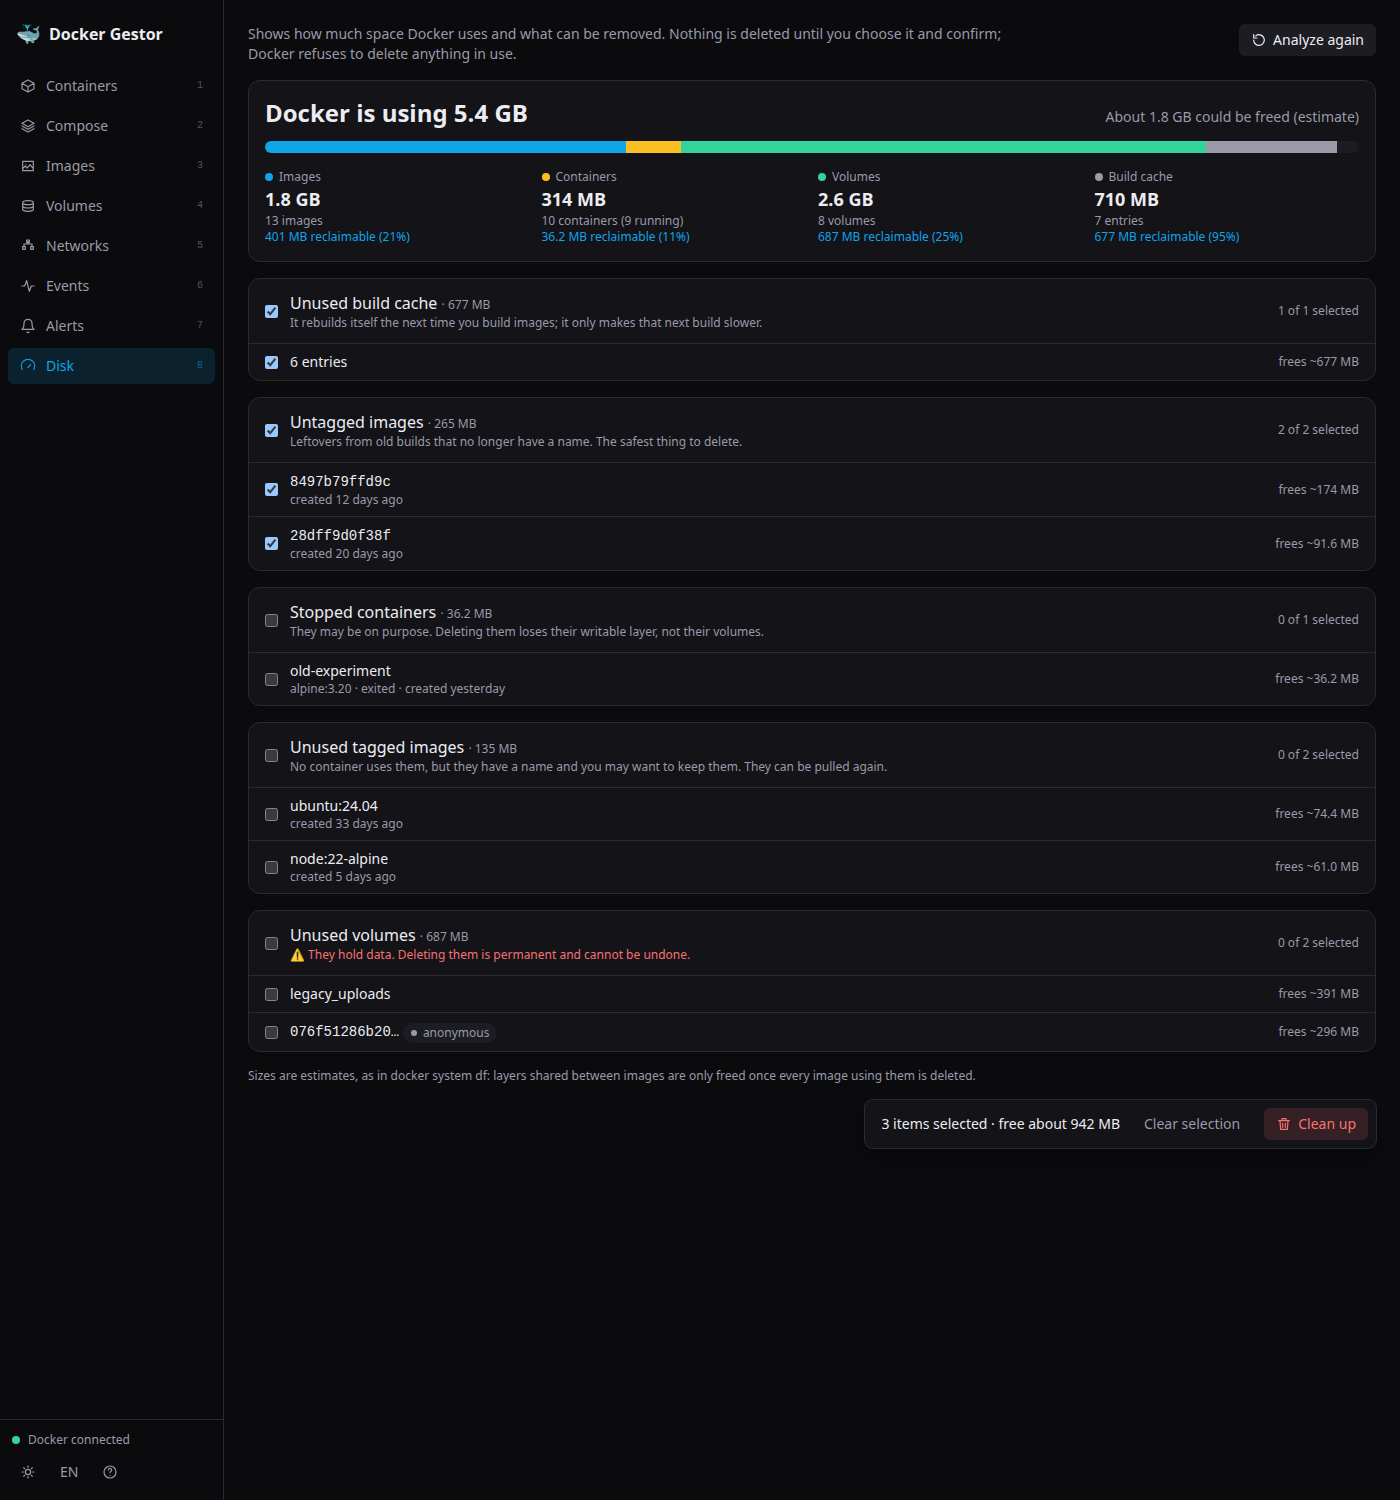
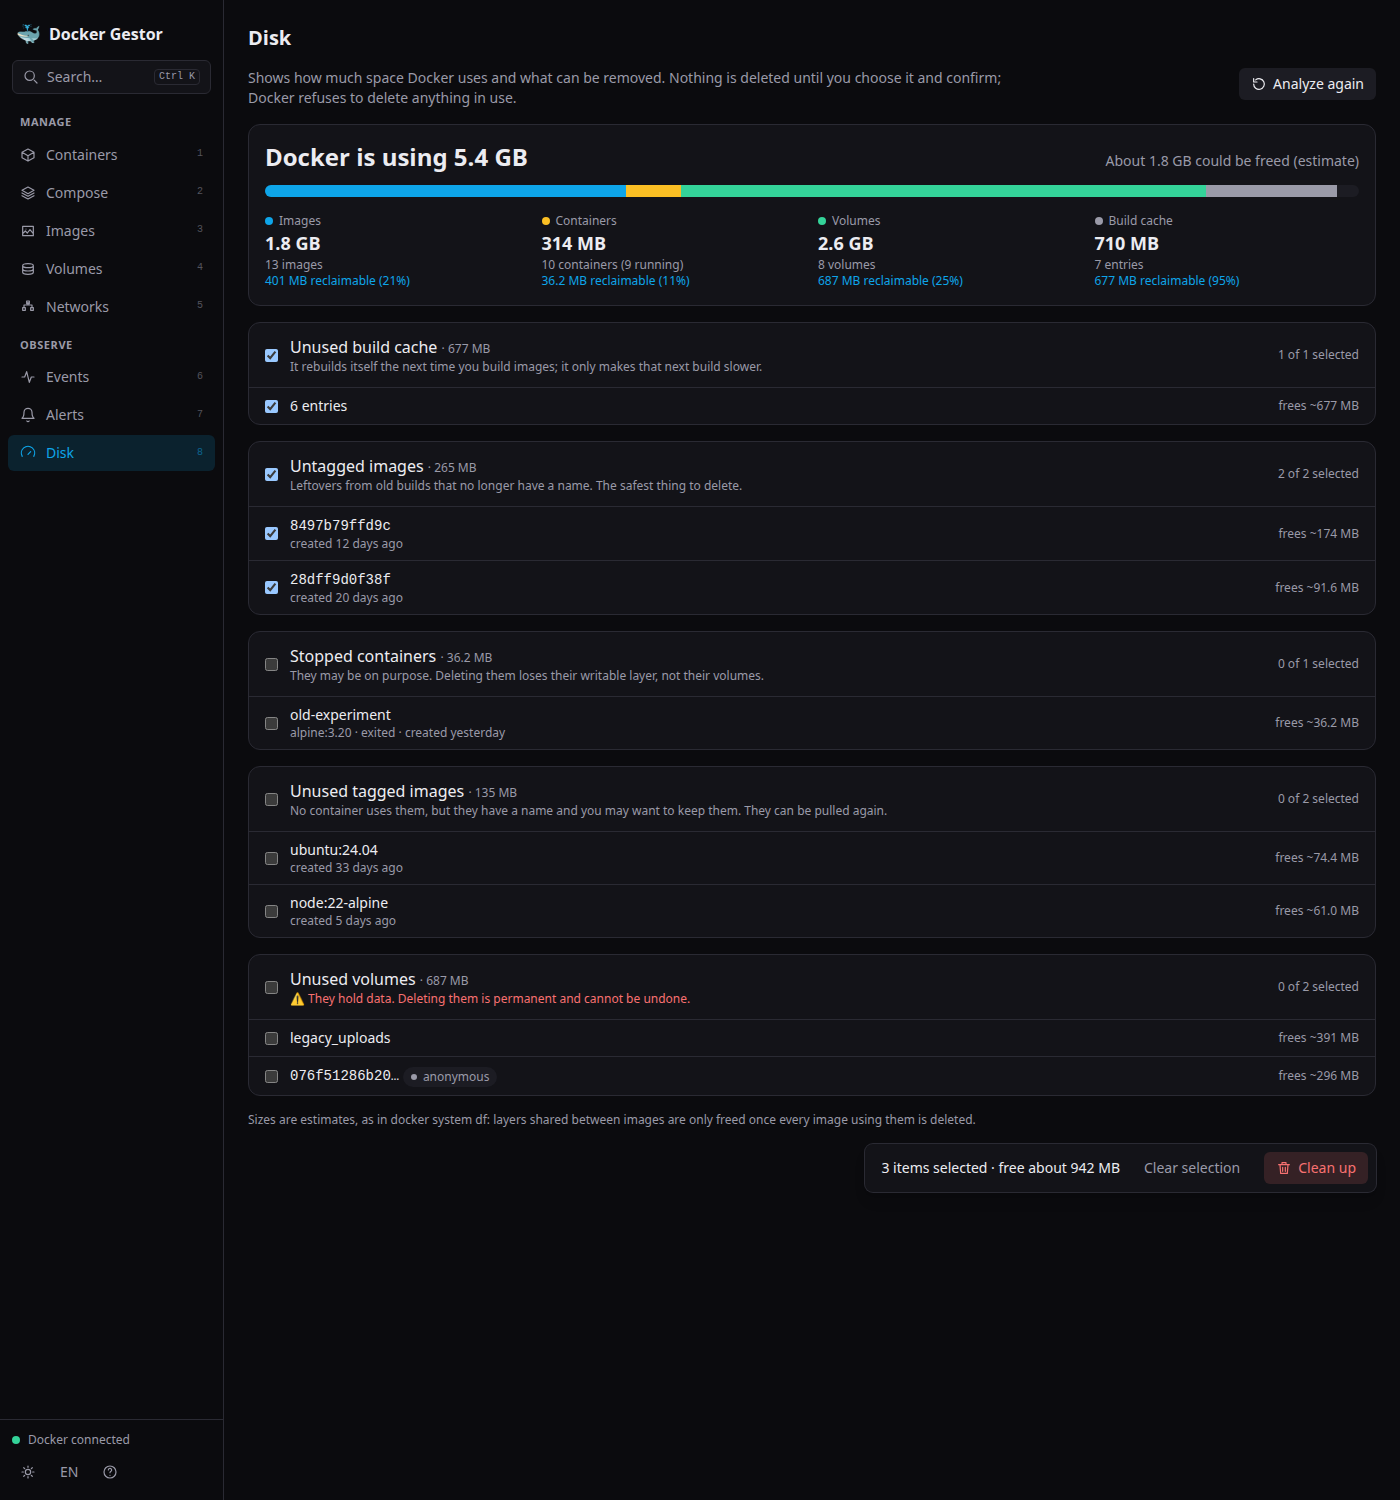
Document the redesign and the self-updating interface
- Guides (English and Spanish): sidebar, command palette, row menu, density,
  keyboard shortcut, and how the interface keeps itself up to date.
- README, changelog and developer notes; regenerate every screenshot and the
  GIF, with new captures of the palette, the row menu and the compact view.

Changed region(s): [[0.1843, 0.0, 0.9829, 0.7973], [0.0, 0.0307, 0.1536, 0.3373], [0.1229, 0.0307, 0.1536, 0.0613]]

diff --git a/docs/GUIDE.md b/docs/GUIDE.md
@@ -79,13 +79,35 @@ sudo loginctl enable-linger $USER       # if it says Linger=no
 
 ## 3. Interface tour
 
-- **Sidebar** (on top on mobile): the eight sections. At the bottom: connection status (🟢 *Docker connected*), theme, language and help.
-- **Main area**: the active section.
+- **Sidebar** (on top on mobile): the eight sections in two groups, **Manage** (Containers, Compose, Images, Volumes, Networks) and **Observe** (Events, Alerts, Disk), with a search button at the top. At the bottom: connection status (🟢 *Docker connected*), theme, language and help.
+- **Main area**: the active section, with its title.
 - **Toasts**: bottom right. Success toasts fade on their own; errors stay a bit longer and can be dismissed with ✕.
 - **Confirmations**: every destructive action asks first and explains what will happen.
 - **Windows**: close with `Esc`, ✕, or by clicking outside (the terminal is the exception).
+- **Loading**: while data arrives you see placeholder rows (a skeleton), so the layout does not jump.
 
 The browser tab title shows how many containers are running: `(12) Docker Gestor`.
+
+### Command palette
+
+Press **`Ctrl`+`K`** (**`⌘`+`K`** on a Mac) anywhere, even while typing in a field, or use the search button at the top of the sidebar. Type what you want and press `Enter`:
+
+- **Sections**: `images`, `disk`, `alerts`…
+- **Containers**: `logs api` finds *Logs · shop-api*; every container offers *Details*, *Logs*, *Terminal* (if running) and *Start/Stop*.
+- **Actions**: new container, refresh, toggle theme, change language, help.
+
+Every word you type has to match (in any order), accents and case are ignored, and a long enough abbreviation works too (`shwb` finds *shop-web*). `↑` `↓` move, `Enter` runs, `Esc` closes, and `Ctrl`+`K` again closes it.
+
+### It keeps itself up to date
+
+The interface follows Docker through its event stream, so a container you start, stop or remove from the command line, Compose or another tool shows up within a second **without reloading the page**. It also catches up by itself when:
+
+- **Docker stops answering for a while** (it restarts, the machine wakes up…): an amber notice says *Docker is not responding* and the page reconnects on its own, refreshing as soon as Docker is back. A red notice means the **Docker Gestor service** itself was lost, which is a different thing.
+- **Many events arrive at once** (stopping a whole stack): it refreshes at a steady pace instead of waiting for the storm to end.
+- **A slow, outdated answer arrives late**: it never overwrites newer data.
+- **You come back to the tab** after a while.
+
+After an action it refreshes immediately and once more a moment later, in case Docker takes a beat to show the new state. An open *Details* window updates itself too.
 
 ## 4. Containers
 
@@ -101,23 +123,31 @@ Four summary cards on top: running containers, total CPU, memory in use and numb
 
 | Element | Meaning |
 |---|---|
-| Name and image | Hover for the full text |
-| Links `:8080:80 ↗` | Published ports. TCP ones open `http://localhost:<port>` in a new tab |
+| Coloured stripe | The state at a glance: green running, red unhealthy, amber starting or other, grey stopped |
+| Name and image | Click the name for the details; hover for the full text |
+| Ports `:8080:80 ↗` | Published ports as chips. TCP ones open `http://localhost:<port>` in a new tab |
 | Status badge | 🟢 Running · 🟡 Starting / other · 🔴 unhealthy · ⚪ Stopped |
 | CPU and RAM | Current usage with a bar; refreshed every 10 s, only while you are on this section |
 
-### Action buttons
+### Row actions
 
-| Icon | Action |
+The two you use most are on the row; everything else is in the **⋯** menu.
+
+| Control | Action |
 |---|---|
 | ▶ / ■ | Start or stop |
-| ⟳ | Restart |
 | 📄 | **View logs** |
-| ›_ | **Open terminal** (running containers only) |
-| 📊 | **Usage chart** |
-| 🗑 | Delete (asks first) |
+| **⋯** → Details | The container's [details](#container-details) |
+| **⋯** → Restart | Restart |
+| **⋯** → Open terminal | **Terminal** (running containers only) |
+| **⋯** → Usage chart | **Usage chart** |
+| **⋯** → Delete | Delete (asks first), in red and set apart |
+
+The menu is fully keyboard-driven: `Enter` or `↓` on the **⋯** button opens it, `↑` `↓` `Home` `End` move, `Enter` chooses, `Esc` closes it and puts the focus back on the button. It opens upwards when there is no room below.
 
 While an action runs, its button shows a spinner and is disabled.
+
+**Density.** The button next to *Group by* switches between a **comfortable** view and a **compact** one (one line per container, so a whole stack fits on screen). It is remembered.
 
 ### Logs
 
@@ -368,6 +398,7 @@ Press `?` anytime. They are ignored while you type in a field or a window is ope
 
 | Key | Action |
 |---|---|
+| `Ctrl`/`⌘` + `K` | **Command palette** (works everywhere, even while typing) |
 | `1` – `8` | Switch section |
 | `/` | Go to search |
 | `n` | New container |
@@ -503,7 +534,9 @@ src/lib/inspect-core.mjs       Container details shaping and secret masking (pur
 src/lib/disk-core.mjs         Disk usage analysis and cleanup validation (pure, unit-tested)
 src/lib/disk.ts               Disk report and per-item cleanup
 src/app/page.tsx              The UI (sections)
-src/app/ui.tsx                Shared components: buttons, modal, toasts, confirmations, icons
+src/app/ui.tsx                Shared components: buttons, modal, toasts, confirmations, icons, actions menu, skeletons
+src/app/Palette.tsx           Command palette (Ctrl/⌘+K)
+src/lib/palette-core.mjs      Palette search and ranking (pure, unit-tested)
 src/app/i18n.ts + locales/    Translations (one file per language)
 src/app/{Logs,Terminal,HistoryChart,CreateForm}.tsx   Windows
 src/app/api/**                REST API and SSE streams
@@ -542,7 +575,7 @@ Connection errors answer `503` with a `code` (`docker_unreachable`, `docker_deni
 ```bash
 systemctl --user stop docker-gestor     # frees port 4455
 npm run dev                             # hot reload
-npm run typecheck && npm test && npm run smoke && npm run e2e:alerts && npm run e2e:disk && npm run e2e:detail && npm run e2e:groups && npm run e2e:custom-groups && npm run e2e:dnd && npm run e2e:health && npm run e2e:progress
+npm run typecheck && npm test && npm run smoke && npm run e2e:alerts && npm run e2e:disk && npm run e2e:detail && npm run e2e:groups && npm run e2e:custom-groups && npm run e2e:dnd && npm run e2e:health && npm run e2e:progress && npm run e2e:ui && npm run e2e:resilience
 ```
 
 No Docker at hand? Run the fake API: `node scripts/demo/mock-docker.mjs /tmp/docker-mock.sock &` then `DOCKER_SOCKET=/tmp/docker-mock.sock npm run dev`.

diff --git a/docs/GUIA.md b/docs/GUIA.md
@@ -84,13 +84,35 @@ sudo loginctl enable-linger $USER       # si dice Linger=no
 
 ## 3. Recorrido por la interfaz
 
-- **Barra lateral** (arriba en móvil): las ocho secciones. En la parte inferior verás el estado de la conexión (🟢 *Docker conectado*), el cambio de tema, el selector de idioma y la ayuda.
-- **Zona principal**: el contenido de la sección activa.
+- **Barra lateral** (arriba en móvil): las ocho secciones en dos grupos, **Gestionar** (Contenedores, Compose, Imágenes, Volúmenes, Redes) y **Observar** (Eventos, Alertas, Disco), con un botón de búsqueda arriba. En la parte inferior verás el estado de la conexión (🟢 *Docker conectado*), el cambio de tema, el selector de idioma y la ayuda.
+- **Zona principal**: la sección activa, con su título.
 - **Avisos**: aparecen abajo a la derecha. Los de éxito desaparecen solos; los de error permanecen unos segundos más y puedes cerrarlos con ✕.
 - **Confirmaciones**: toda acción destructiva (eliminar, bajar un stack…) pide confirmación explícita y te explica qué ocurrirá.
 - **Ventanas**: se cierran con `Esc`, con ✕ o haciendo clic fuera (la terminal es la excepción, ver más abajo).
+- **Carga**: mientras llegan los datos ves filas de relleno (un esqueleto), así el diseño no da saltos.
 
 El título de la pestaña del navegador muestra cuántos contenedores están en marcha: `(12) Docker Gestor`.
+
+### Paleta de comandos
+
+Pulsa **`Ctrl`+`K`** (**`⌘`+`K`** en Mac) en cualquier momento, incluso escribiendo en un campo, o usa el botón de búsqueda de la parte superior de la barra lateral. Escribe lo que quieras y pulsa `Enter`:
+
+- **Secciones**: `imágenes`, `disco`, `alertas`…
+- **Contenedores**: `logs api` encuentra *Logs · shop-api*; cada contenedor ofrece *Detalles*, *Logs*, *Terminal* (si está en marcha) e *Iniciar/Detener*.
+- **Acciones**: nuevo contenedor, refrescar, cambiar tema, cambiar idioma, ayuda.
+
+Cada palabra que escribas tiene que coincidir (en cualquier orden), se ignoran mayúsculas y acentos, y también vale una abreviatura suficientemente larga (`shwb` encuentra *shop-web*). `↑` `↓` se mueven, `Enter` ejecuta, `Esc` cierra y `Ctrl`+`K` otra vez también la cierra.
+
+### Se mantiene actualizada sola
+
+La interfaz sigue a Docker mediante su flujo de eventos, así que un contenedor que inicies, detengas o elimines desde la línea de comandos, Compose u otra herramienta aparece en menos de un segundo **sin recargar la página**. También se pone al día sola cuando:
+
+- **Docker deja de responder un rato** (se reinicia, el equipo despierta…): un aviso ámbar dice *Docker no responde* y la página reconecta por sí misma, refrescando en cuanto Docker vuelve. Un aviso rojo significa que se perdió el **servicio de Docker Gestor** en sí, que es otra cosa.
+- **Llegan muchos eventos a la vez** (detener un stack entero): refresca a un ritmo constante en lugar de esperar a que acabe la tormenta.
+- **Llega tarde una respuesta lenta y ya antigua**: nunca pisa datos más nuevos.
+- **Vuelves a la pestaña** pasado un tiempo.
+
+Tras una acción refresca al instante y una vez más poco después, por si Docker tarda un momento en mostrar el nuevo estado. Una ventana de *Detalles* abierta también se actualiza sola.
 
 ## 4. Contenedores
 
@@ -106,23 +128,31 @@ La sección principal. Arriba hay cuatro tarjetas de resumen: contenedores en ma
 
 | Elemento | Qué significa |
 |---|---|
-| Nombre e imagen | Pasa el ratón para ver el texto completo |
-| Enlaces `:8080:80 ↗` | Puertos publicados. Los TCP son clicables y abren `http://localhost:<puerto>` en otra pestaña |
+| Franja de color | El estado de un vistazo: verde en marcha, rojo *unhealthy*, ámbar arrancando u otro, gris detenido |
+| Nombre e imagen | Haz clic en el nombre para ver los detalles; pasa el ratón para ver el texto completo |
+| Puertos `:8080:80 ↗` | Puertos publicados como etiquetas. Los TCP son clicables y abren `http://localhost:<puerto>` en otra pestaña |
 | Insignia de estado | 🟢 En marcha · 🟡 Arrancando / pausado · 🔴 *unhealthy* (falla su comprobación de salud) · ⚪ Detenido |
 | CPU y RAM | Uso actual, con barra. Se actualiza cada 10 s y solo mientras estás en esta sección |
 
-### Botones de acción
+### Acciones de la fila
 
-| Icono | Acción |
+Las dos que más usas están en la fila; el resto, en el menú **⋯**.
+
+| Control | Acción |
 |---|---|
 | ▶ / ■ | Iniciar o detener |
-| ⟳ | Reiniciar |
 | 📄 | **Ver logs** |
-| ›_ | **Abrir terminal** (solo si está en marcha) |
-| 📊 | **Gráfica de consumo** |
-| 🗑 | Eliminar (pide confirmación) |
+| **⋯** → Detalles | Los [detalles](#detalles-del-contenedor) del contenedor |
+| **⋯** → Reiniciar | Reiniciar |
+| **⋯** → Abrir terminal | **Terminal** (solo si está en marcha) |
+| **⋯** → Gráfica de consumo | **Gráfica de consumo** |
+| **⋯** → Eliminar | Eliminar (pide confirmación), en rojo y separado |
+
+El menú se maneja por completo con el teclado: `Enter` o `↓` sobre el botón **⋯** lo abre, `↑` `↓` `Inicio` `Fin` se mueven, `Enter` elige, `Esc` lo cierra y devuelve el foco al botón. Se abre hacia arriba si no hay sitio debajo.
 
 Mientras una acción se ejecuta, el botón muestra un indicador y se desactiva para evitar dobles clics.
+
+**Densidad.** El botón junto a *Agrupar por* alterna entre una vista **cómoda** y otra **compacta** (una línea por contenedor, así cabe un stack entero en pantalla). Se recuerda.
 
 ### Ver logs
 
@@ -374,6 +404,7 @@ Pulsa `?` en cualquier momento para verlos. No actúan mientras escribes en un c
 
 | Tecla | Acción |
 |---|---|
+| `Ctrl`/`⌘` + `K` | **Paleta de comandos** (funciona en cualquier sitio, incluso escribiendo) |
 | `1` – `8` | Cambiar de sección |
 | `/` | Ir al buscador |
 | `n` | Nuevo contenedor |
@@ -531,7 +562,9 @@ src/lib/inspect-core.mjs       Detalles del contenedor y enmascarado de secretos
 src/lib/disk-core.mjs         Análisis de uso de disco y validación de limpieza (puro, con pruebas)
 src/lib/disk.ts               Informe de disco y limpieza elemento a elemento
 src/app/page.tsx              Interfaz (secciones)
-src/app/ui.tsx                Componentes comunes: botones, modal, avisos, confirmaciones, iconos
+src/app/ui.tsx                Componentes comunes: botones, modal, avisos, confirmaciones, iconos, menú de acciones, esqueletos
+src/app/Palette.tsx           Paleta de comandos (Ctrl/⌘+K)
+src/lib/palette-core.mjs      Búsqueda y ordenación de la paleta (puro, con pruebas)
 src/app/i18n.ts + locales/    Traducciones (un archivo por idioma)
 src/app/{Logs,Terminal,HistoryChart,CreateForm}.tsx   Ventanas
 src/app/globals.css           Tokens de tema claro/oscuro

diff --git a/README.md b/README.md
@@ -29,6 +29,8 @@ It is **not** a replacement for the bigger tools. Use something else if you need
 
 ## Features
 
+- **Fast to drive** — a **command palette** (`Ctrl`/`⌘`+`K`) to jump to any container, section or action, a **⋯ menu** per row (Start/Stop and Logs stay one click away), a **compact view** that fits a whole stack on screen, a grouped sidebar and loading skeletons. Fully keyboard-accessible.
+- **Stays current by itself** — follows Docker's events, so changes made anywhere show up without reloading the page; it reconnects after Docker or the network drops, catches up during event bursts and never lets a slow, outdated response overwrite newer data.
 - **Containers** — list, search, filter, group by Compose stack; start / stop / restart / remove; clickable published ports; live CPU and memory per container.
 - **Manage by stack or selection** — start, stop or restart a whole group (or any selection) in one click, **in dependency order** when Compose declares it (database before API, reverse to stop) **waiting for a service to be healthy** before starting what depends on it, with a **live progress panel** (what it is waiting for, how long) and a **Cancel** button. Works for any group, including stacks Compose cannot manage, and for **your own groups** (create them from a selection or by **drag and drop**, rename, merge, dissolve — containers are never touched).
 - **Live logs** — streaming, filtering, timestamps toggle, error/warning highlighting, download.
@@ -49,6 +51,8 @@ It is **not** a replacement for the bigger tools. Use something else if you need
 | | |
 |---|---|
 | ![Containers, dark](docs/img/containers-dark.png) **Containers** (dark) | ![Containers, light](docs/img/containers-light.png) **Containers** (light) |
+| ![Command palette](docs/img/palette.png) **Command palette** (`Ctrl`/`⌘` + `K`) | ![Row menu](docs/img/row-menu.png) **Row actions menu** |
+| ![Compact view](docs/img/containers-compact.png) **Compact view** | |
 | ![Live logs](docs/img/logs.png) **Live logs** | ![Usage chart](docs/img/chart.png) **Usage history** |
 | ![Create container](docs/img/create.png) **Create a container** | ![Compose](docs/img/compose.png) **Compose stacks** |
 | ![Events](docs/img/events.png) **Live events** | ![Alerts](docs/img/alerts.png) **Alerts** (Telegram, webhook, browser) |
@@ -162,6 +166,8 @@ npm run e2e:custom-groups   # custom groups end-to-end (persistence, rename/merg
 npm run e2e:dnd      # drag and drop with a real mouse drag (needs Chrome/Chromium)
 npm run e2e:health   # group start waits for healthy dependencies (real timings)
 npm run e2e:progress # live progress stream and cancelling a group action
+npm run e2e:ui       # interface structure, row menu, command palette, density, skeleton (needs Chrome/Chromium)
+npm run e2e:resilience # stays current: Docker outage, event bursts, late responses (needs Chrome/Chromium)
 ```
 
 Stack: Next.js (App Router) · React · Tailwind CSS 4 · dockerode · `node:sqlite` · ws · xterm.js. UI strings live in `src/app/locales/` (adding a language is one file).

diff --git a/CHANGELOG.md b/CHANGELOG.md
@@ -2,6 +2,25 @@
 
 All notable changes to this project are documented here. The format follows [Keep a Changelog](https://keepachangelog.com/) and the project uses [Semantic Versioning](https://semver.org/).
 
+## [Unreleased]
+
+### Fixed
+- **The interface no longer gets stuck on an old state after stopping or starting containers.** Several causes, each with its own test:
+  - The events stream gave up for good when Docker briefly failed (a browser `EventSource` never reconnects after an HTTP error). The server now always answers 200 and tells the browser when to retry; the page also reconnects by itself with growing waits, and refreshes the moment it is back.
+  - An old, slow response could arrive last and overwrite newer data; only the newest response per resource is applied now.
+  - A burst of events (stopping a whole stack) postponed the refresh until the burst ended; it now refreshes at a bounded rate.
+  - After an action it refreshes immediately and again about 1.5 s later, in case Docker is slow to show the new state. An open *Details* window updates itself every few seconds.
+  - A failing poll raised an error notice each time; there is now one until something works again.
+- When Docker (not the server) is unreachable the page says so with an amber *Docker is not responding* notice, instead of the misleading red "connection lost".
+- The log stream of a container that is gone ends cleanly instead of failing with an HTTP error.
+
+### Changed
+- **Redesigned interface.** Each row keeps *Start/Stop* and *Logs* and moves the rest into a **⋯ menu** (Details, Restart, Terminal, Usage chart, Delete), fully keyboard-accessible; a coloured stripe shows the state at a glance; ports are chips.
+- **Command palette** (`Ctrl`/`⌘`+`K`): jump to any section, container or action with a forgiving search (every word, any order, accent-insensitive, abbreviations).
+- Sidebar organised in **Manage** and **Observe**, with a search button; every page has a title; loading skeletons replace the "Loading…" text.
+- **Compact view** (one line per container), remembered; the toolbar is tidier and the mobile checkbox is aligned.
+- `npm run e2e:ui` and `npm run e2e:resilience`: browser tests with negative controls (they fail when the fixes are removed); both run in CI on Linux.
+
 ## [0.7.0] - 2026-11-10
 
 ### Added
